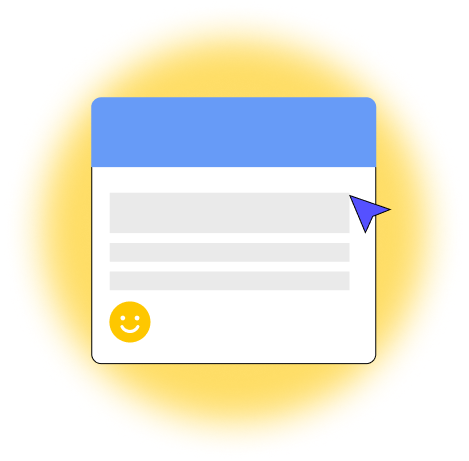
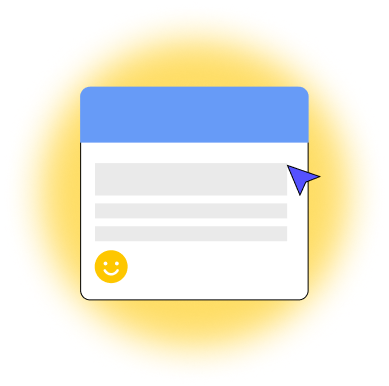
added border radius to block

Changed region(s): [[0.0925, 0.0622, 0.8329, 0.9326], [0.8329, 0.3109, 0.8638, 0.342]]

diff --git a/app/assets/stylesheets/pages/_entry.scss b/app/assets/stylesheets/pages/_entry.scss
@@ -9,15 +9,21 @@
 }
 
 .good_memory {
-  margin-top: 50px;
+  margin-top: 30px;
   margin-bottom: 50px;
-  padding: 70px;
+  padding: 50px;
   background-color: white;
+  border: $pigeons-gray;
+  border-radius: 10px;
 
   .row {
     justify-content: space-between;
     align-items: center;
   }
+}
+
+.good_memory_infos {
+  padding-right: 30px;
 }
 
 .good_memory h2 {
@@ -28,4 +34,5 @@
   color: gray;
   text-align: end;
   padding-top: 15px;
+  font-size: 18px;
 }
